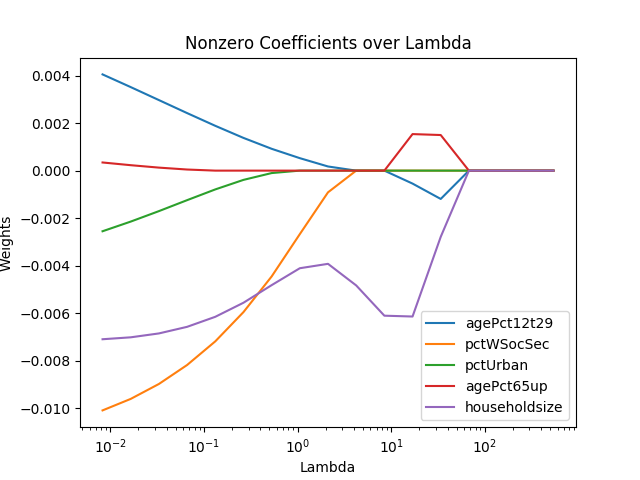
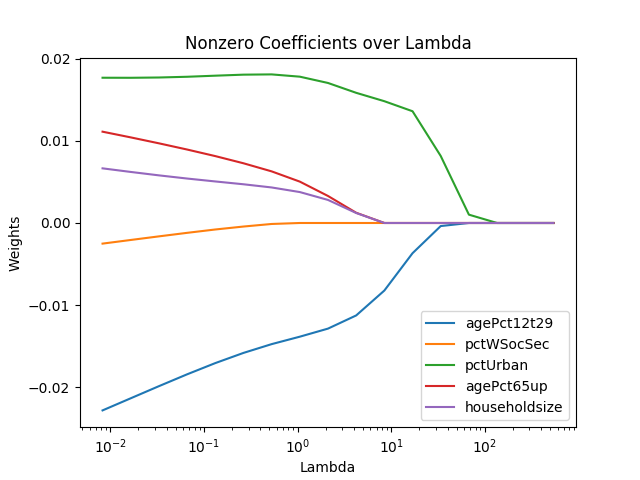
off by one oops

diff --git a/hw2-code/src/crime-lasso.py b/hw2-code/src/crime-lasso.py
@@ -65,8 +65,8 @@ def main():
 
   data_list = []
   for index in input_indices:
-    data_list.append([w_list[i][index] for i in range(len(w_list))])
-  
+    data_list.append([w_list[i][index - 1] for i in range(len(w_list))])
+
   # print(data_list)
 
   h.plot_single("Nonzero Coefficients over Lambda", "A5c.png",
